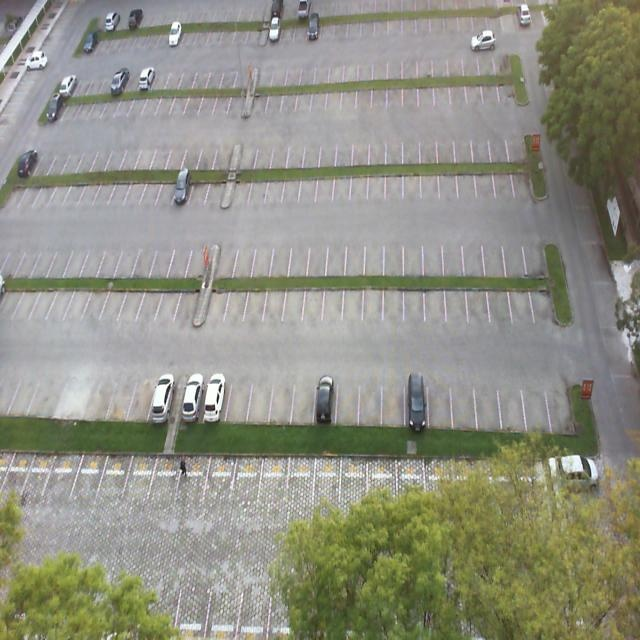
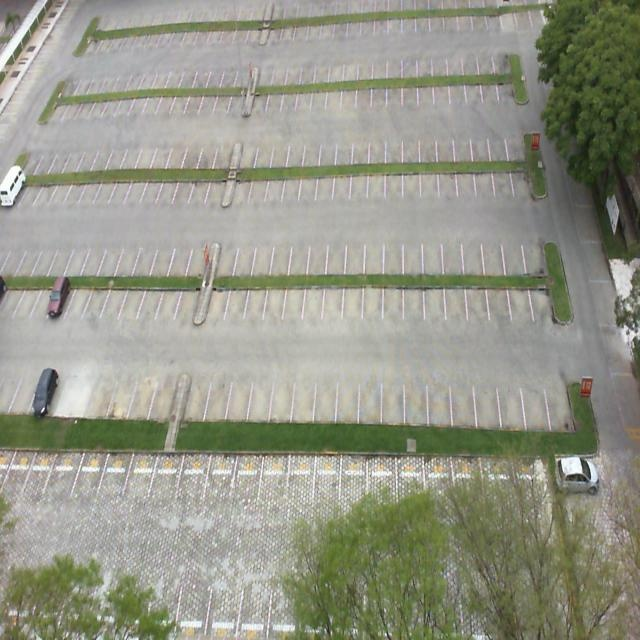
修改后

diff --git a/download.py b/download.py
@@ -1,1 +1,21 @@
+import base64
+import requests
+import json
 import cv2 as cv
+
+url = 'http://127.0.0.1:5000/api'
+def main():
+    f = open('/home/lx/1.jpg', 'rb')
+    #base64编码
+    base64_data = base64.b64encode(f.read())
+    f.close()
+    '''注意编码类型问题，byte->string '''
+    base64_data = base64_data.decode()
+    #传输的数据格式
+    data = {'img':base64_data}
+    #post传递数据
+    r = requests.post(url,data =json.dumps(data))
+    return "OK"
+
+if __name__ == '__main__':
+    main()

diff --git a/client.py b/client.py
@@ -3,9 +3,9 @@ import requests
 import json
 import cv2 as cv
 
-url = 'http://39.105.114.96:5000/api'
+url = 'http://127.0.0.1:5000/api'
 def main():
-    f = open('D:\DeepLearning\SSDtrain\demo\Japan_002964.jpg', 'rb')
+    f = open('/home/lx/1.jpg', 'rb')
     #base64编码
     base64_data = base64.b64encode(f.read())
     f.close()

diff --git a/demo.py b/demo.py
@@ -143,4 +143,4 @@ def main():
     return base64_data
 
 if __name__ == '__main__':
-    main:app.run('0.0.0.0',debug=True)
+    main:app.run(debug=True)
